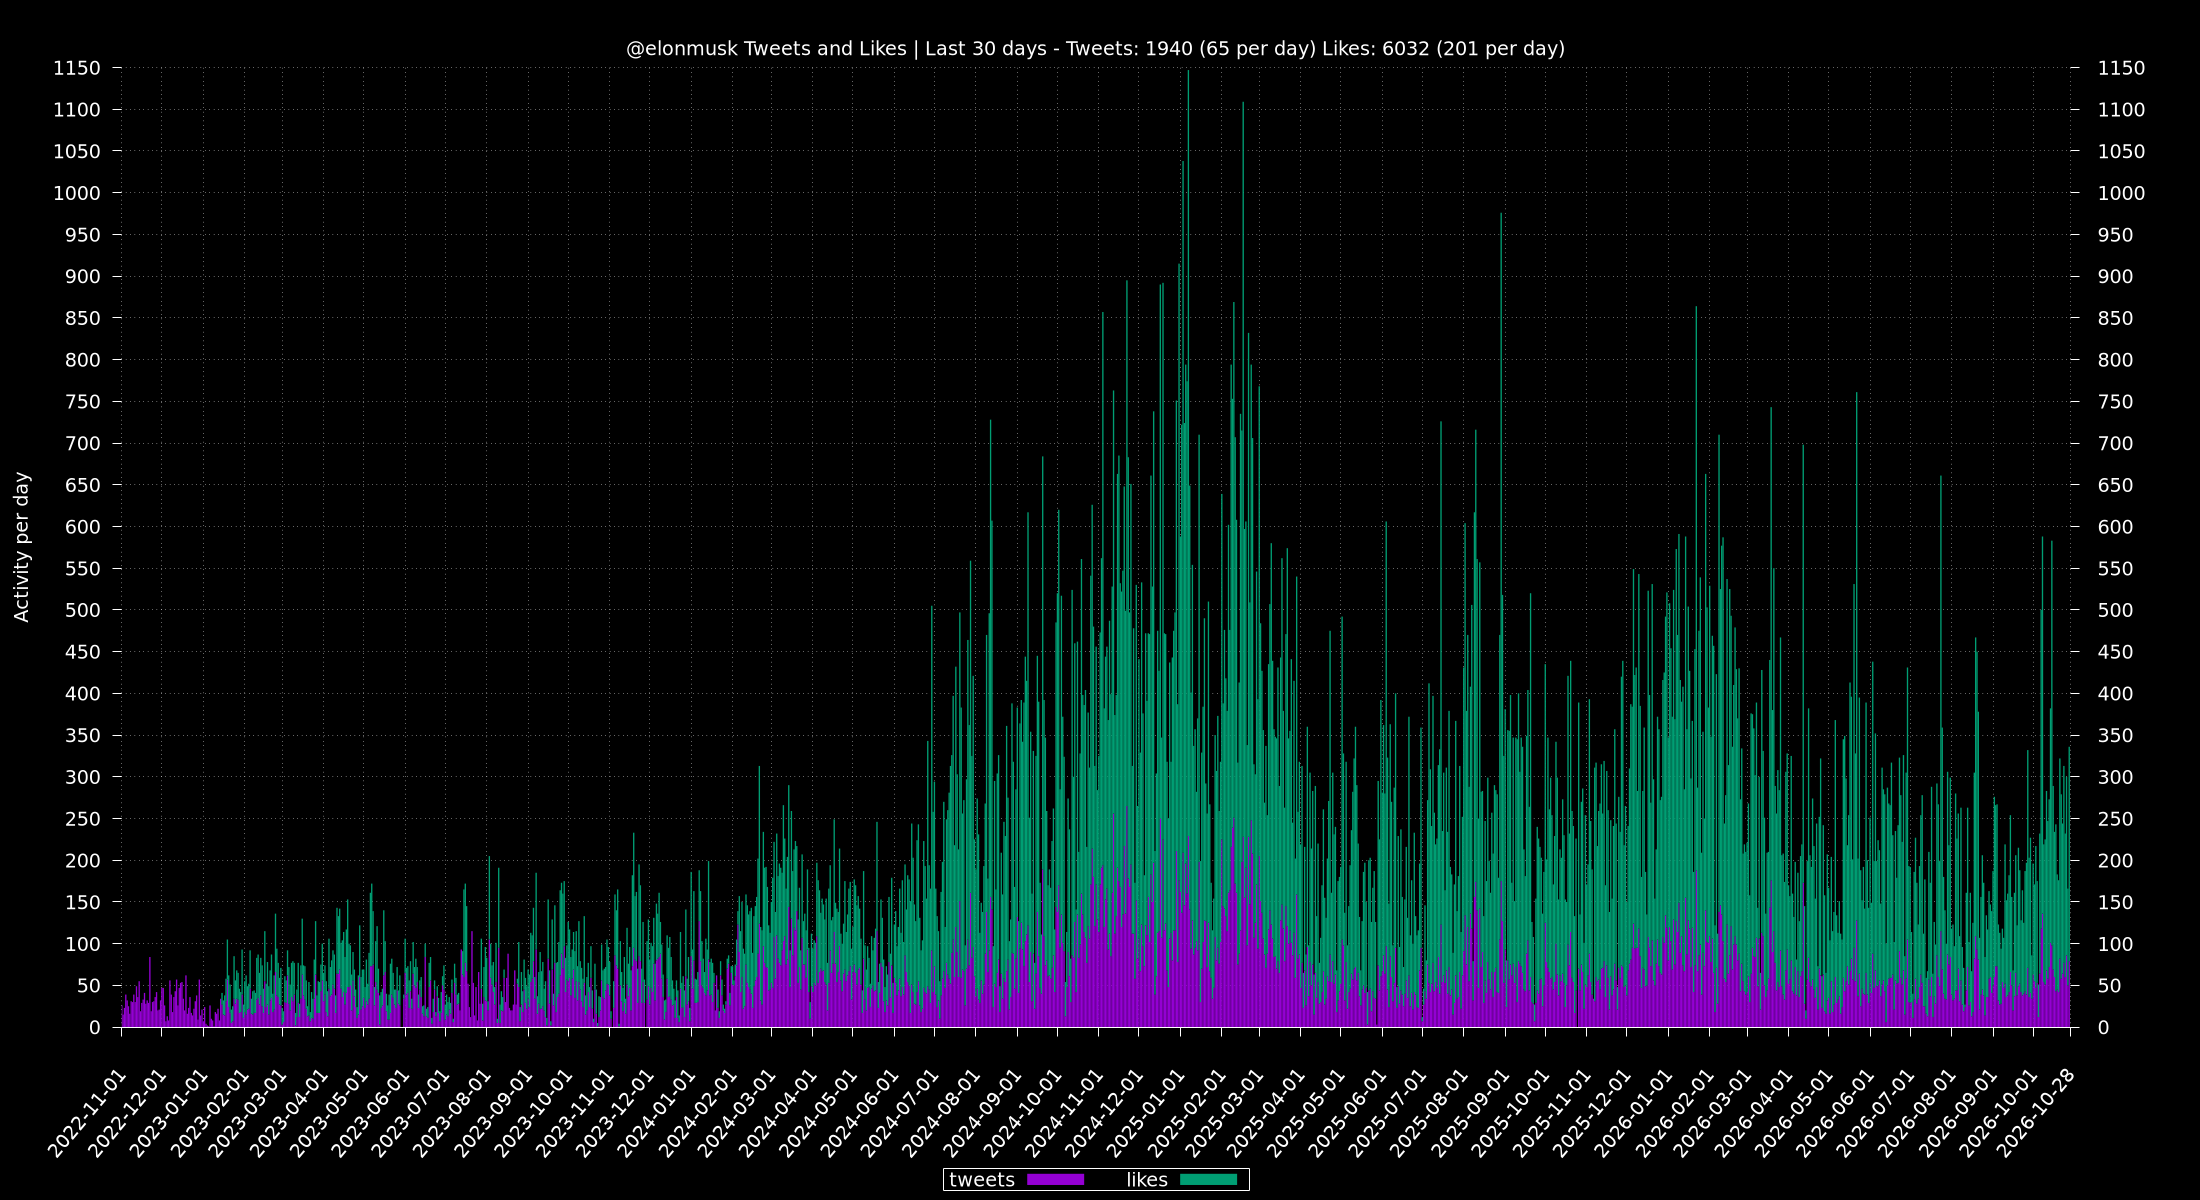
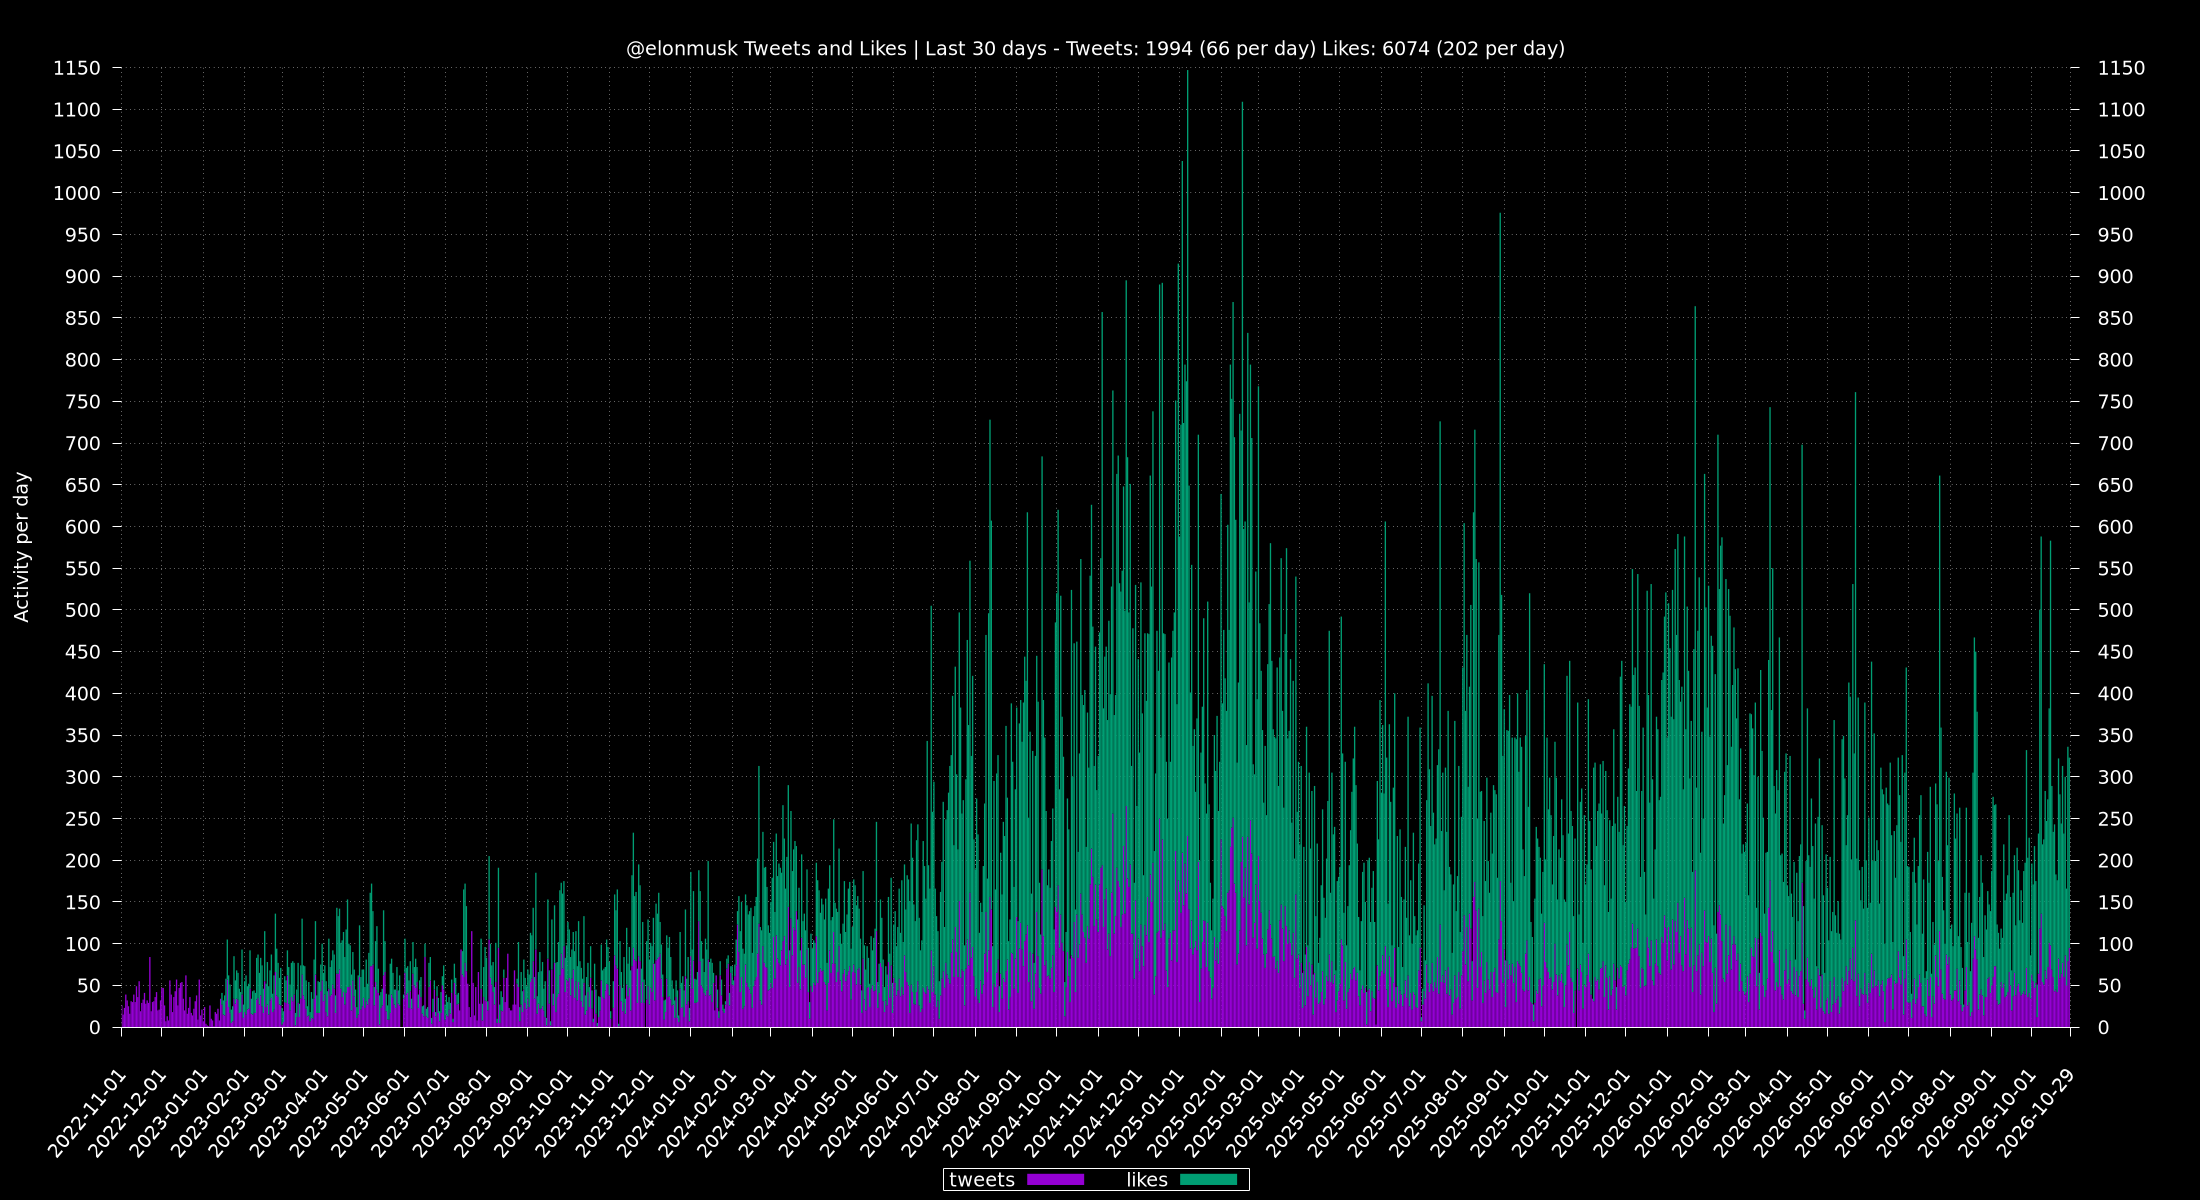
update via cron

diff --git a/totals/README.md b/totals/README.md
@@ -1,6 +1,6 @@
 ## Last 30 Days
-Tweets: 1940 (65 per day)\
-Likes: 6032 (201 per day)
+Tweets: 1994 (66 per day)\
+Likes: 6074 (202 per day)
 
 ## 24 Hours
 Max: [**341**](../misc/most-tweets_24-hr.csv) - From `2024-11-23 14:29:53 CST` To `2024-11-24 14:28:44 CST`
